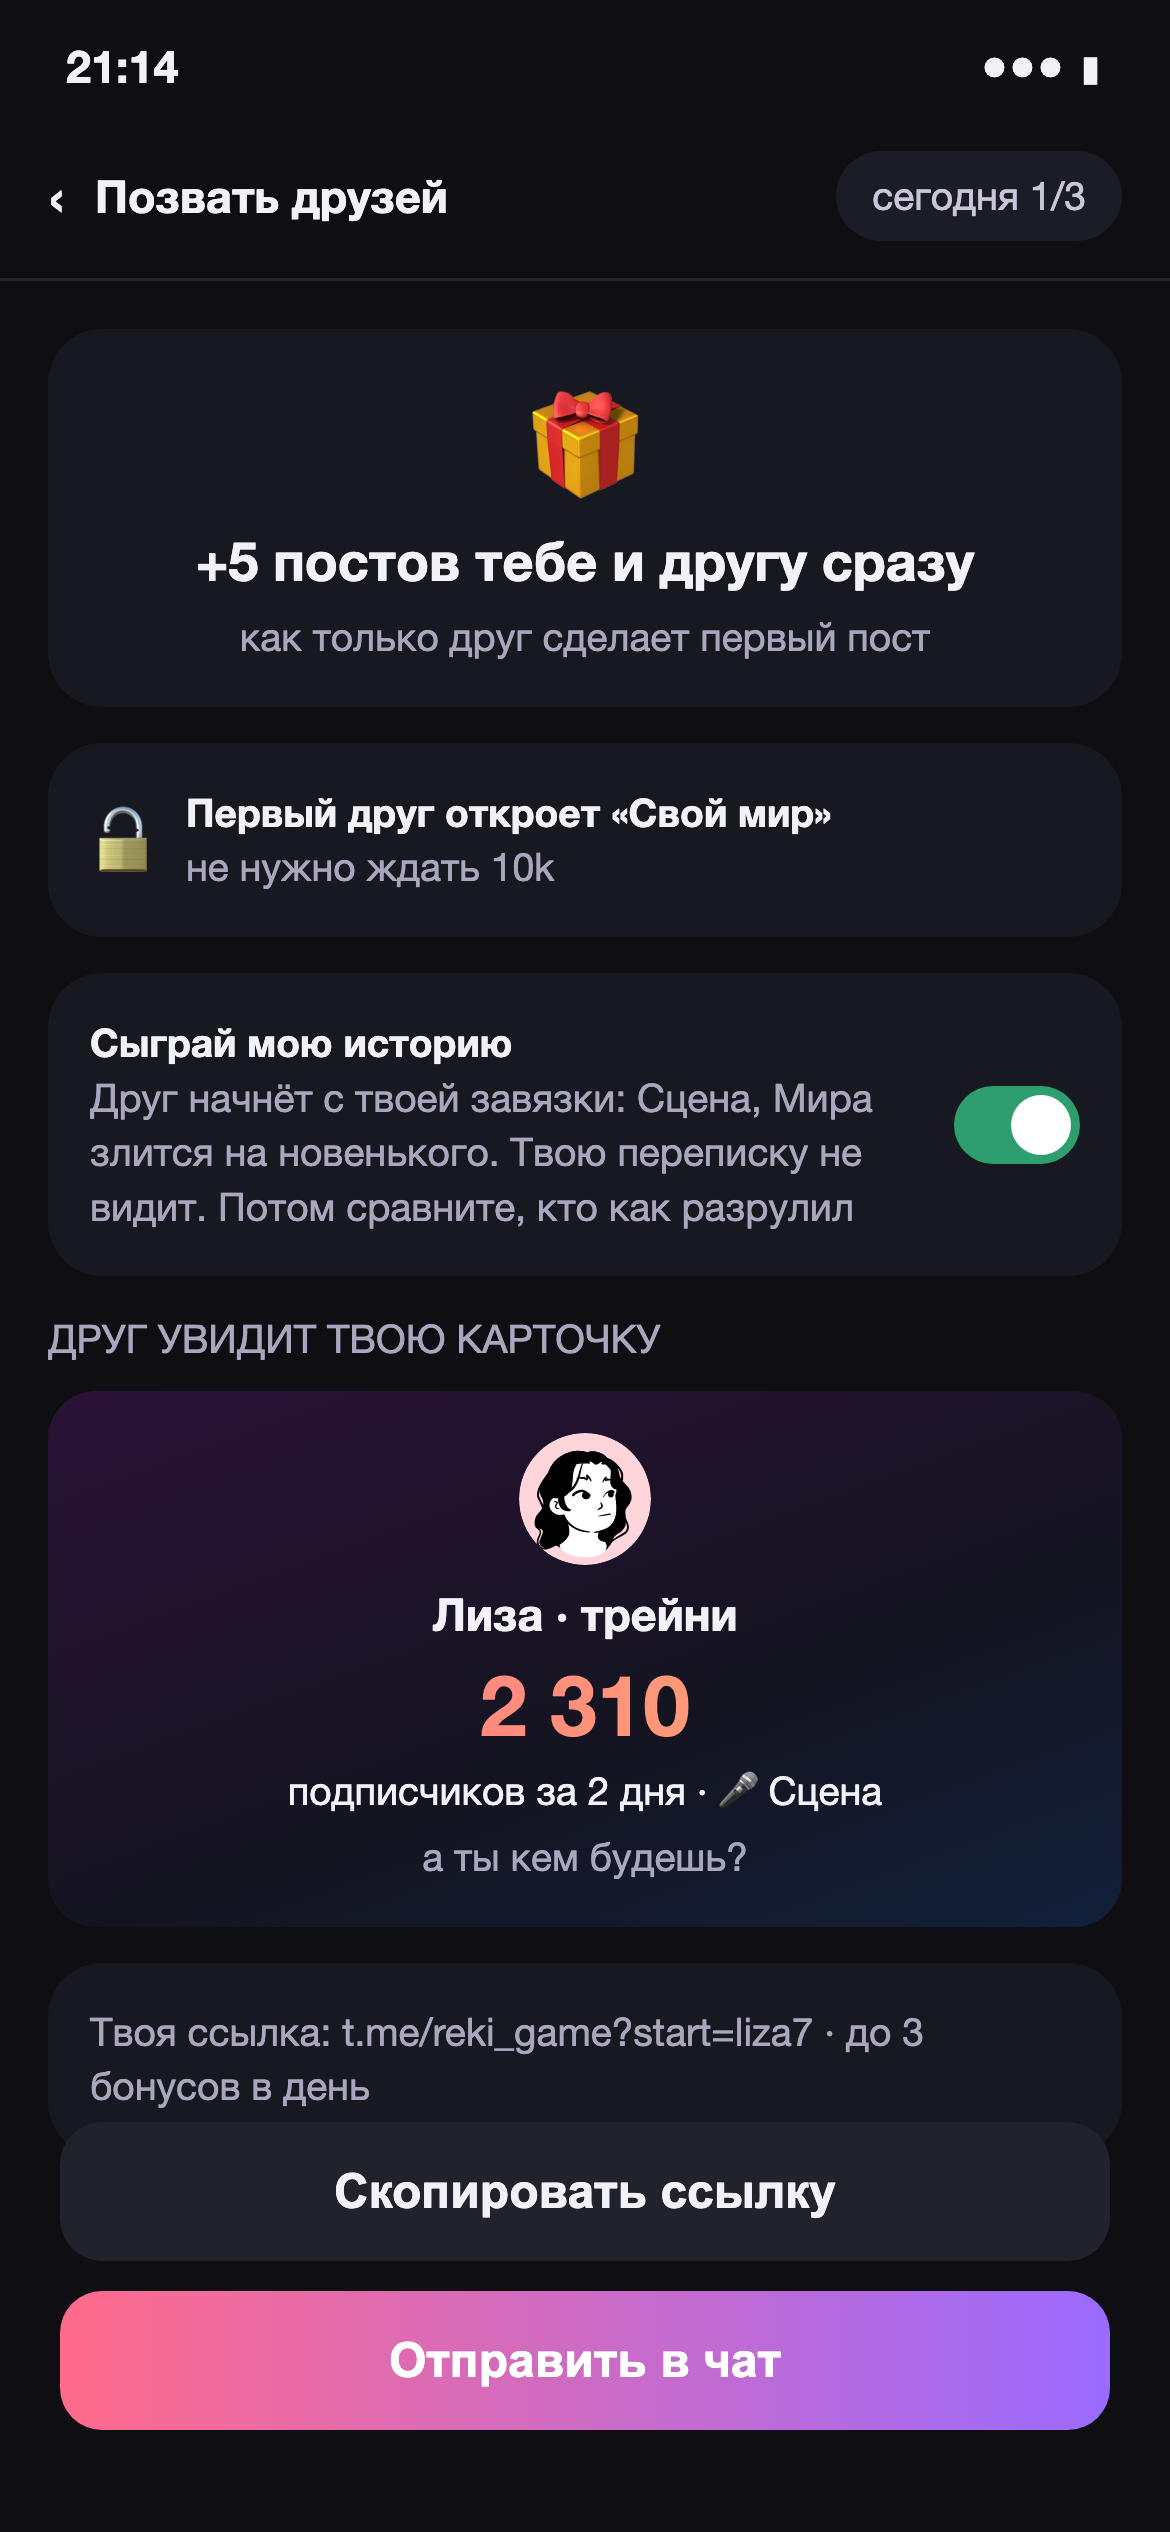
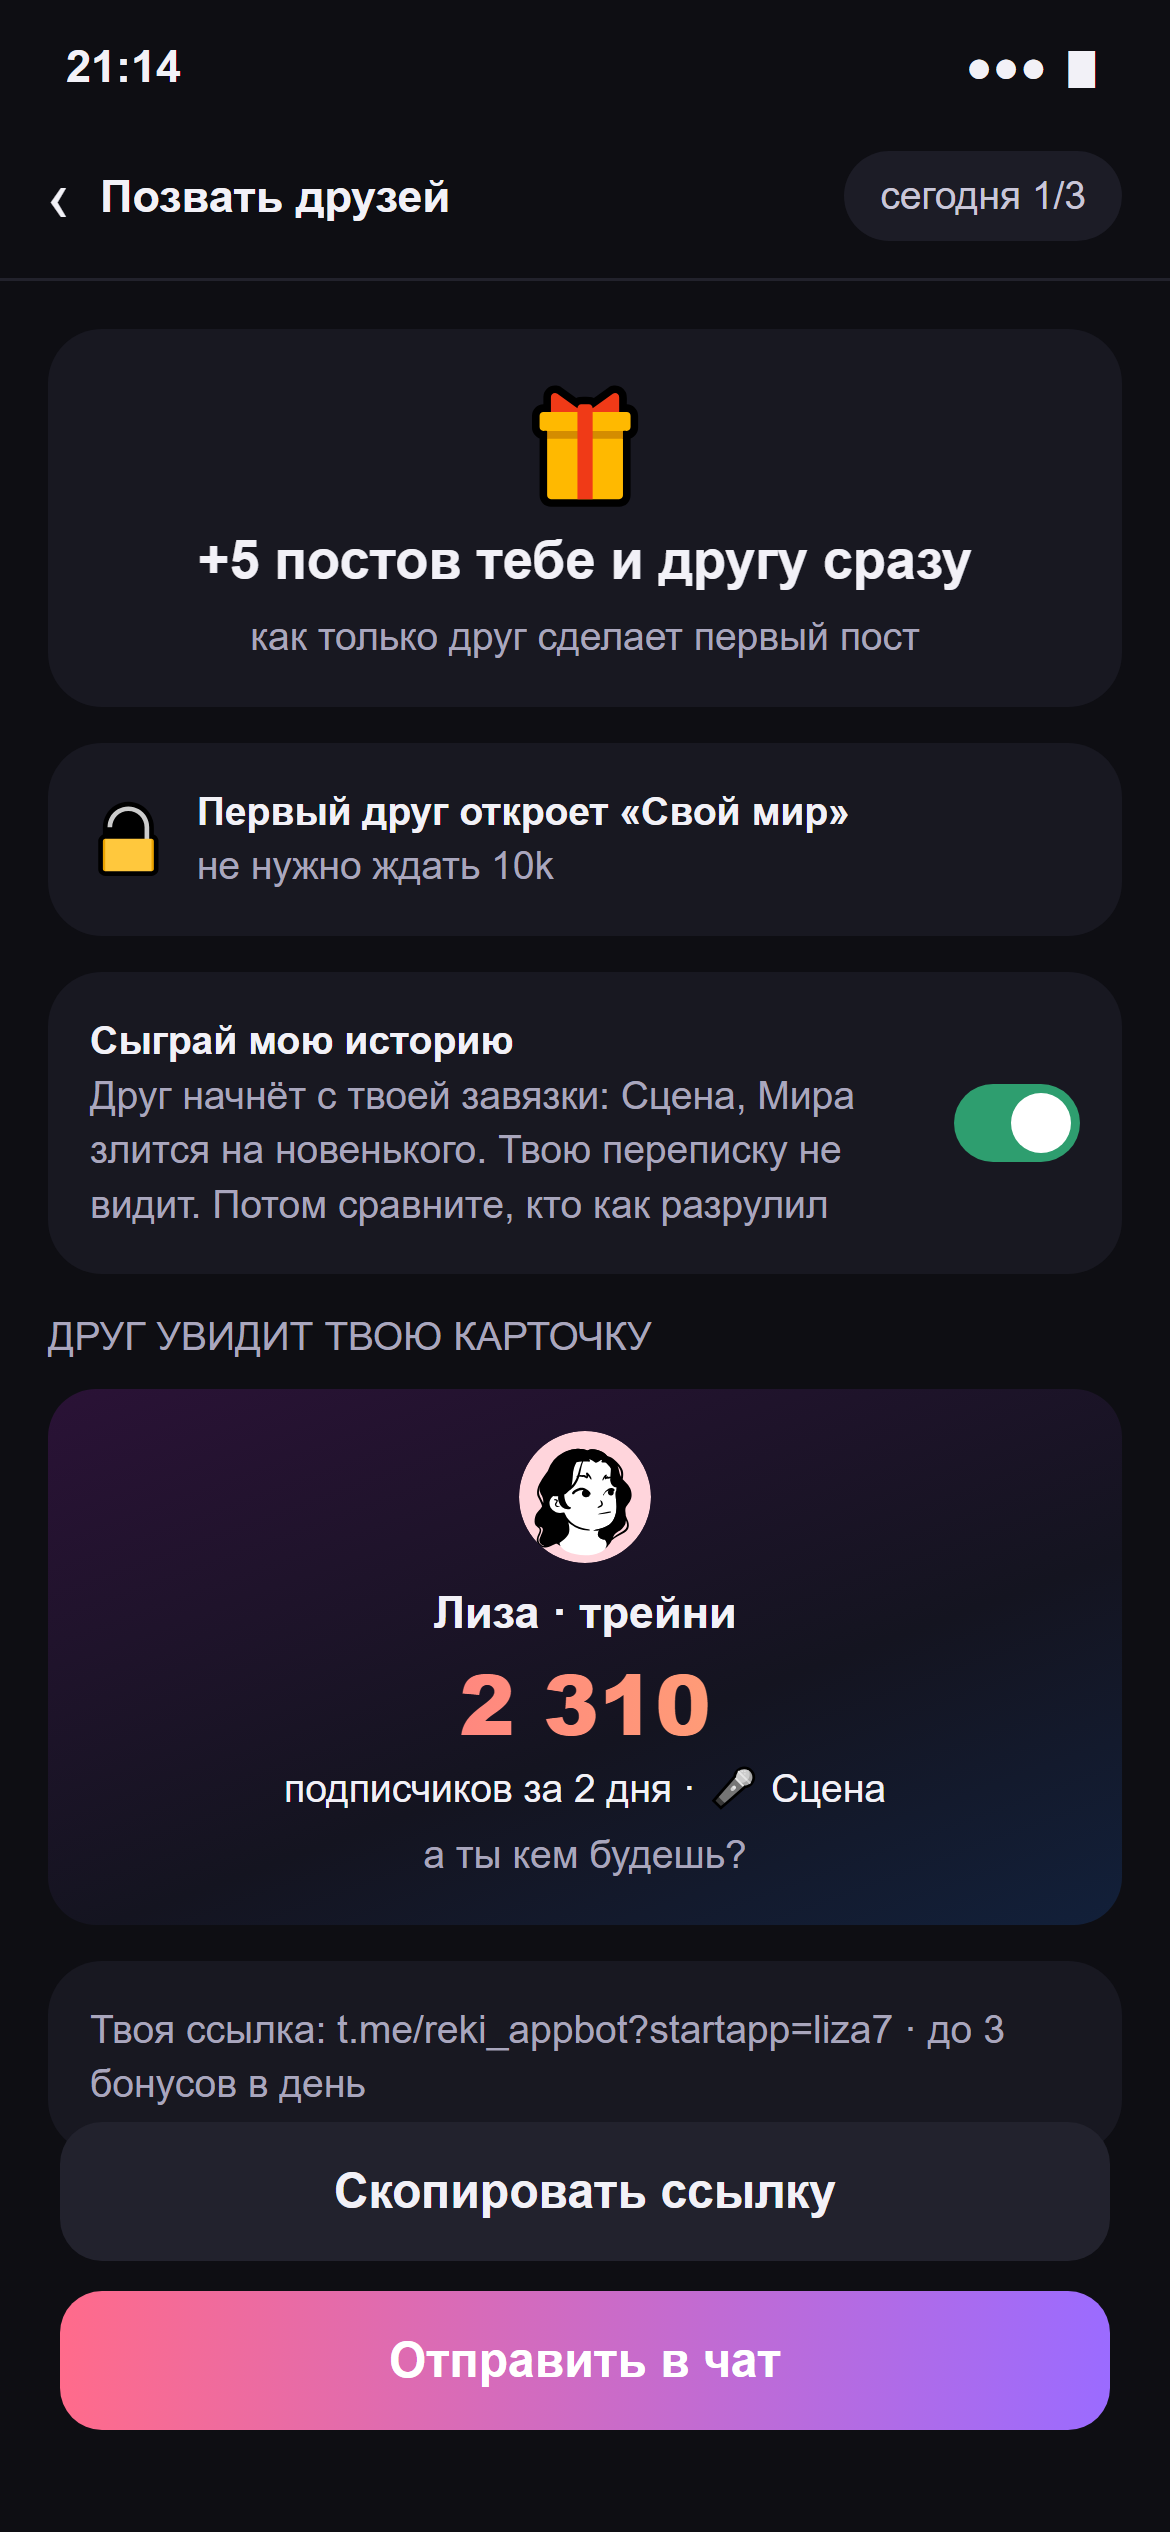
Use startapp deep links for game launches #53

diff --git a/frontend/src/screens/limit.tsx b/frontend/src/screens/limit.tsx
@@ -99,7 +99,7 @@ function Invite() {
           <div style={{ fontSize: 28, fontWeight: 900, background: 'linear-gradient(90deg,#FF6B8B,#FFB86B)', WebkitBackgroundClip: 'text', color: 'transparent' }}>{fmt(2310)}</div>
           <div className="small">подписчиков за 2 дня · {worldOf(p.world).emoji} {worldOf(p.world).title}</div><div className="small muted" style={{ marginTop: 4 }}>а ты кем будешь?</div>
         </div>
-        <Card style={{ color: 'var(--muted)' }}><span className="small">Твоя ссылка: t.me/{TELEGRAM_BOT_USERNAME}?start=liza7 · до 3 бонусов в день</span></Card>
+        <Card style={{ color: 'var(--muted)' }}><span className="small">Твоя ссылка: t.me/{TELEGRAM_BOT_USERNAME}?startapp=liza7 · до 3 бонусов в день</span></Card>
       </div>
       <BottomCTA second="Скопировать ссылку" onSecond={copy} main="Отправить в чат" onMain={shareInvite} />
     </div>

diff --git a/frontend/src/app/TelegramLaunch.tsx b/frontend/src/app/TelegramLaunch.tsx
@@ -1,6 +1,4 @@
-import { telegramStartUrl } from './telegramLinks'
-
-const TELEGRAM_GAME_URL = telegramStartUrl('web')
+import { TELEGRAM_APP_URL } from './telegramLinks'
 
 function TelegramMark() {
   return (
@@ -18,7 +16,7 @@ export function TelegramLaunch() {
         <div className="telegram-launch__icon"><TelegramMark /></div>
         <h1 id="telegram-launch-title">Продолжим в Telegram</h1>
         <p>«Реки» работают как мини-приложение. Открой игру в Telegram, чтобы войти и сохранить прогресс.</p>
-        <a className="telegram-launch__button" href={TELEGRAM_GAME_URL}>Открыть в Telegram</a>
+        <a className="telegram-launch__button" href={TELEGRAM_APP_URL}>Открыть в Telegram</a>
       </section>
       <p className="telegram-launch__hint">В Telegram нажми «Старт», затем открой игру.</p>
     </main>

diff --git a/frontend/src/app/telegramLinks.ts b/frontend/src/app/telegramLinks.ts
@@ -1,4 +1,5 @@
 export const TELEGRAM_BOT_USERNAME = 'reki_appbot'
 export const TELEGRAM_BOT_URL = `https://t.me/${TELEGRAM_BOT_USERNAME}`
+export const TELEGRAM_APP_URL = `${TELEGRAM_BOT_URL}?startapp`
 
-export const telegramStartUrl = (payload: string) => `${TELEGRAM_BOT_URL}?start=${encodeURIComponent(payload)}`
+export const telegramStartUrl = (payload: string) => `${TELEGRAM_BOT_URL}?startapp=${encodeURIComponent(payload)}`

diff --git a/docs/design/src/journey_v9.py b/docs/design/src/journey_v9.py
@@ -1,0 +1,3 @@
+# Правки фреймов v9 (06.10.2026): игровые ссылки сразу открывают Mini App.
+
+assert '?startapp=liza7' in S['04-3_invite']

diff --git a/docs/backend-spec.md b/docs/backend-spec.md
@@ -96,7 +96,8 @@
 
 ## 8. Приглашения и антифрод
 
-- Ссылка `t.me/<бот>?start=<код игрока>`. «Сыграй мою историю»: `start=<код>_s` даёт другу завязку (мир, звёзды, стартовая ситуация), без переписки.
+- Ссылка `t.me/<бот>?startapp=<код игрока>`. «Сыграй мою историю»: `startapp=<код>_s` даёт другу завязку (мир, звёзды, стартовая ситуация), без переписки.
+- Решено 2026-10-06: обычный запуск и все игровые ссылки используют TMA deep link `?startapp[=<payload>]`, чтобы сразу открывать Mini App; ссылки, открывающие только чат бота, не используем.
 - Бонус +5 обоим, когда новый игрок сделал первый пост. До 3 бонусов в день на пригласившего, один бонус на Telegram-аккаунт приглашённого.
 - «Дуэт» на 2-й день, если приглашённый вернулся.
 
